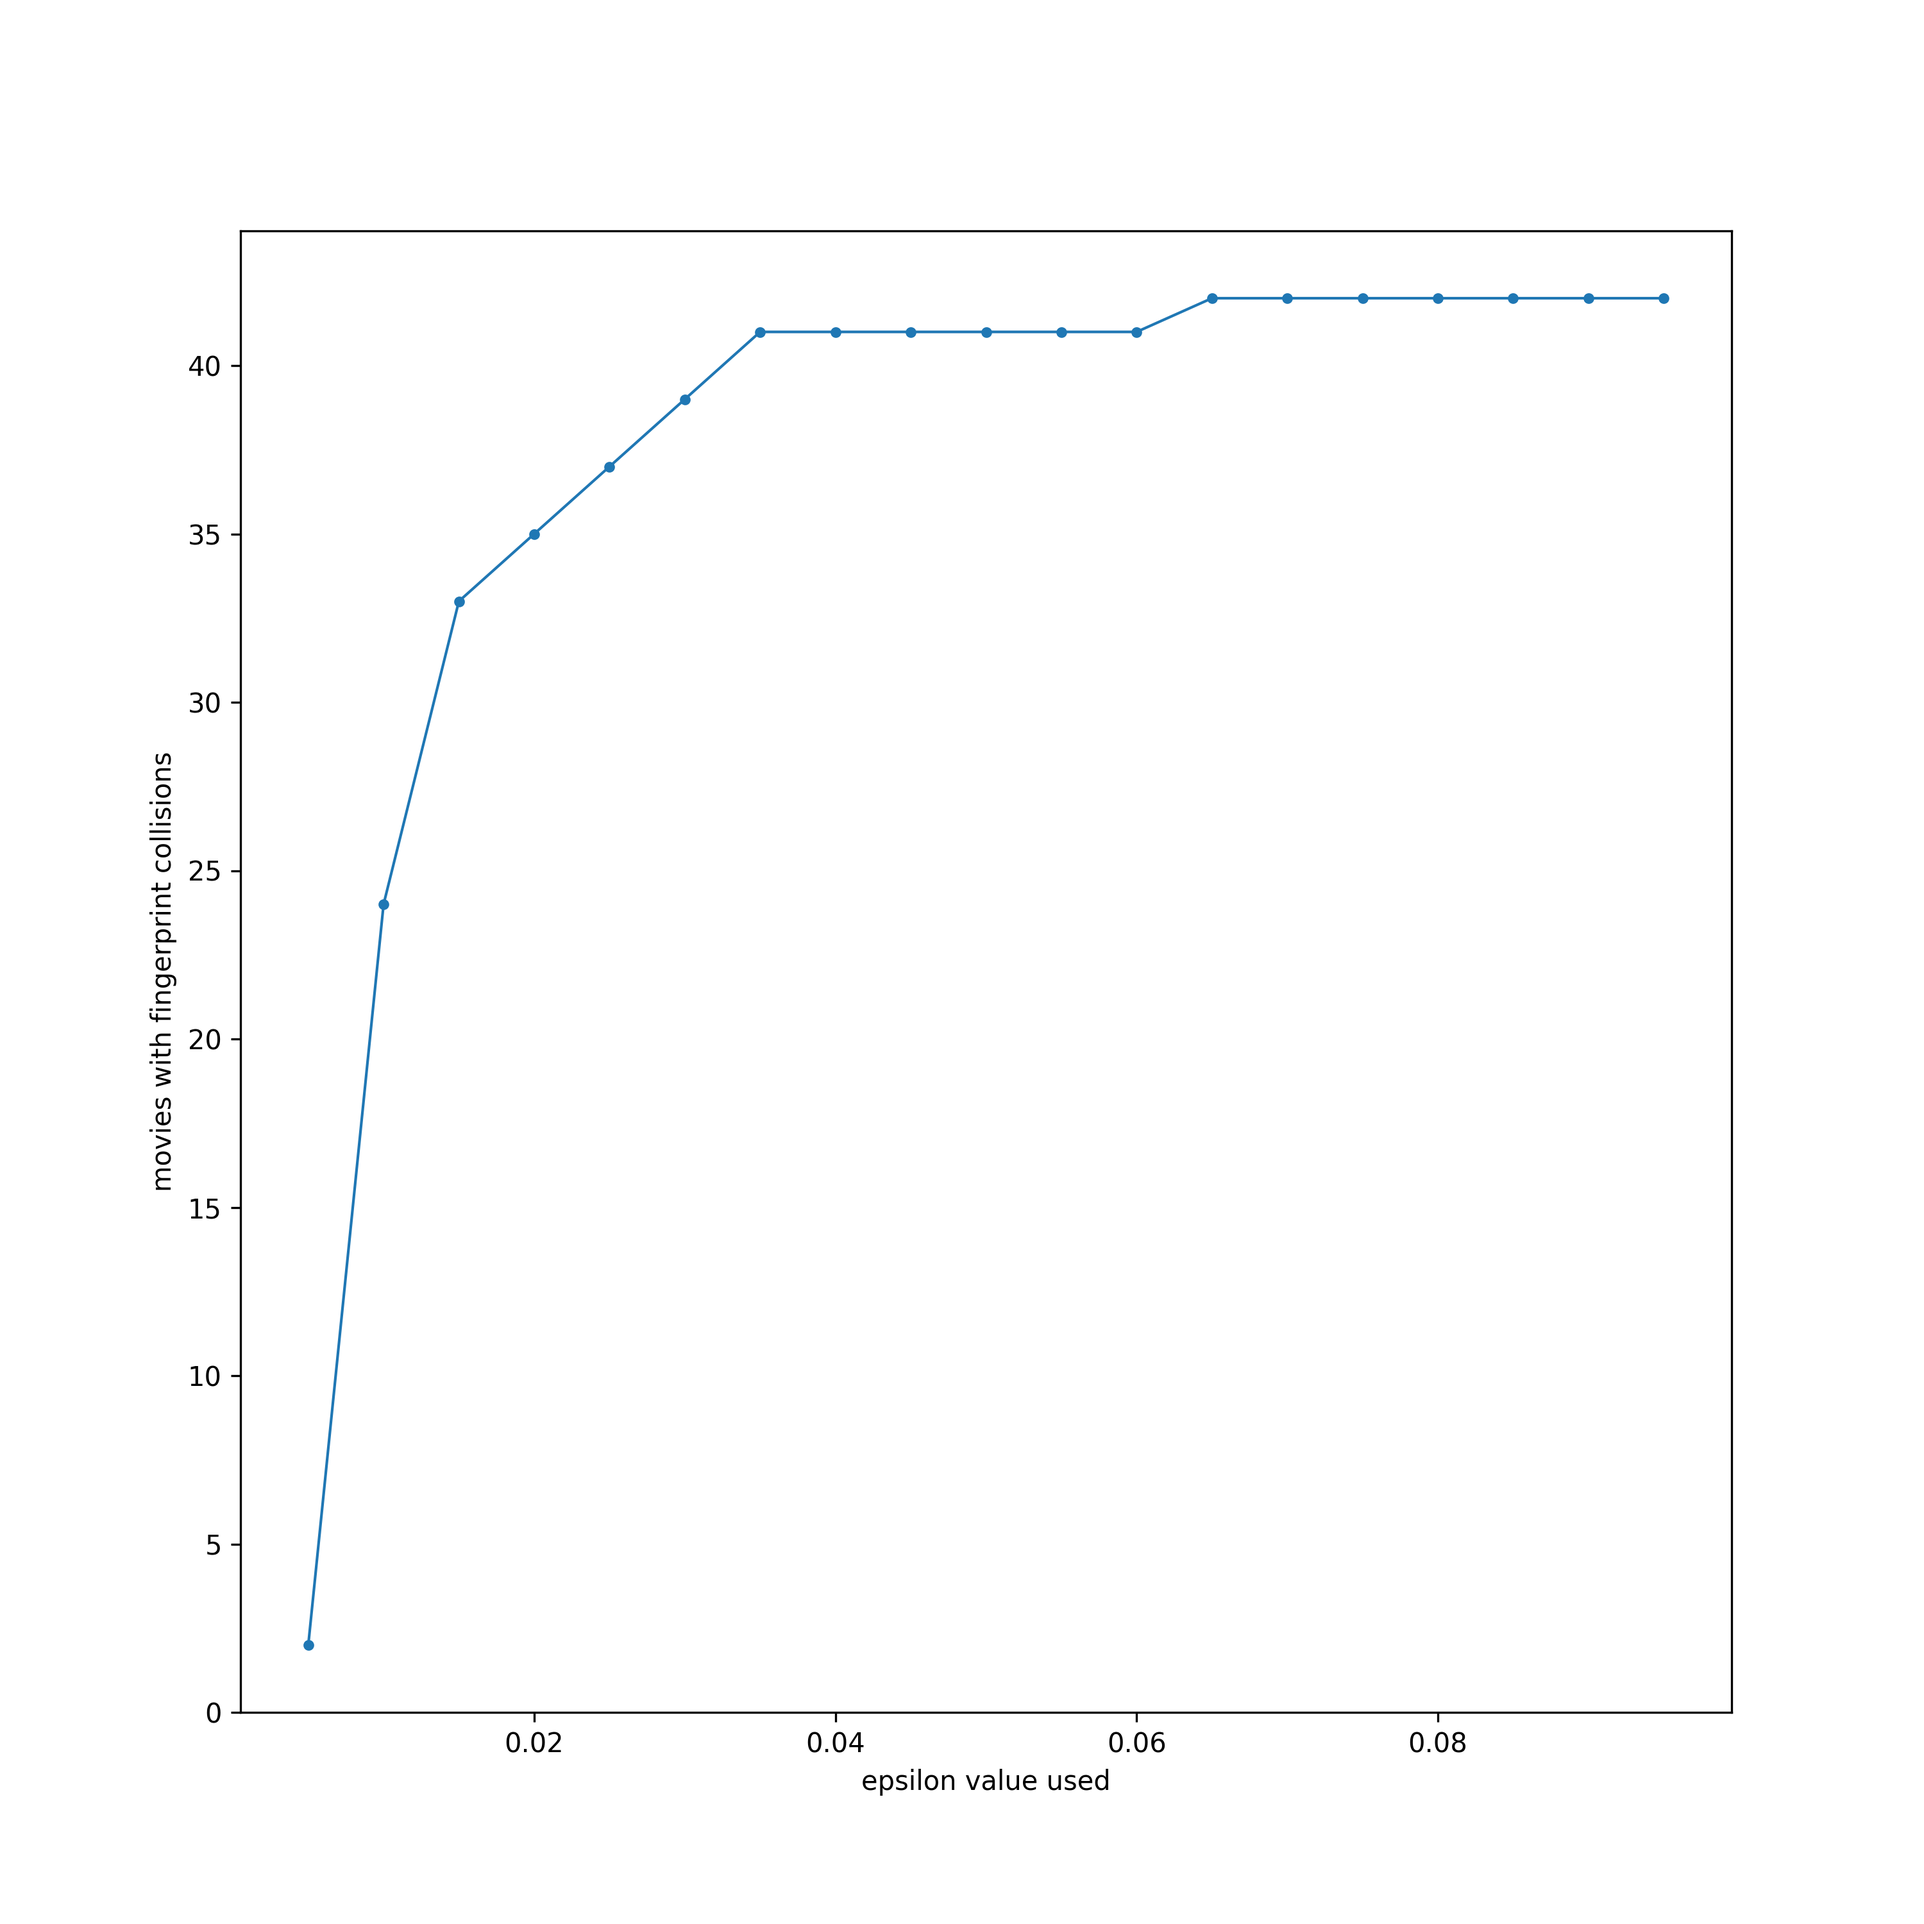
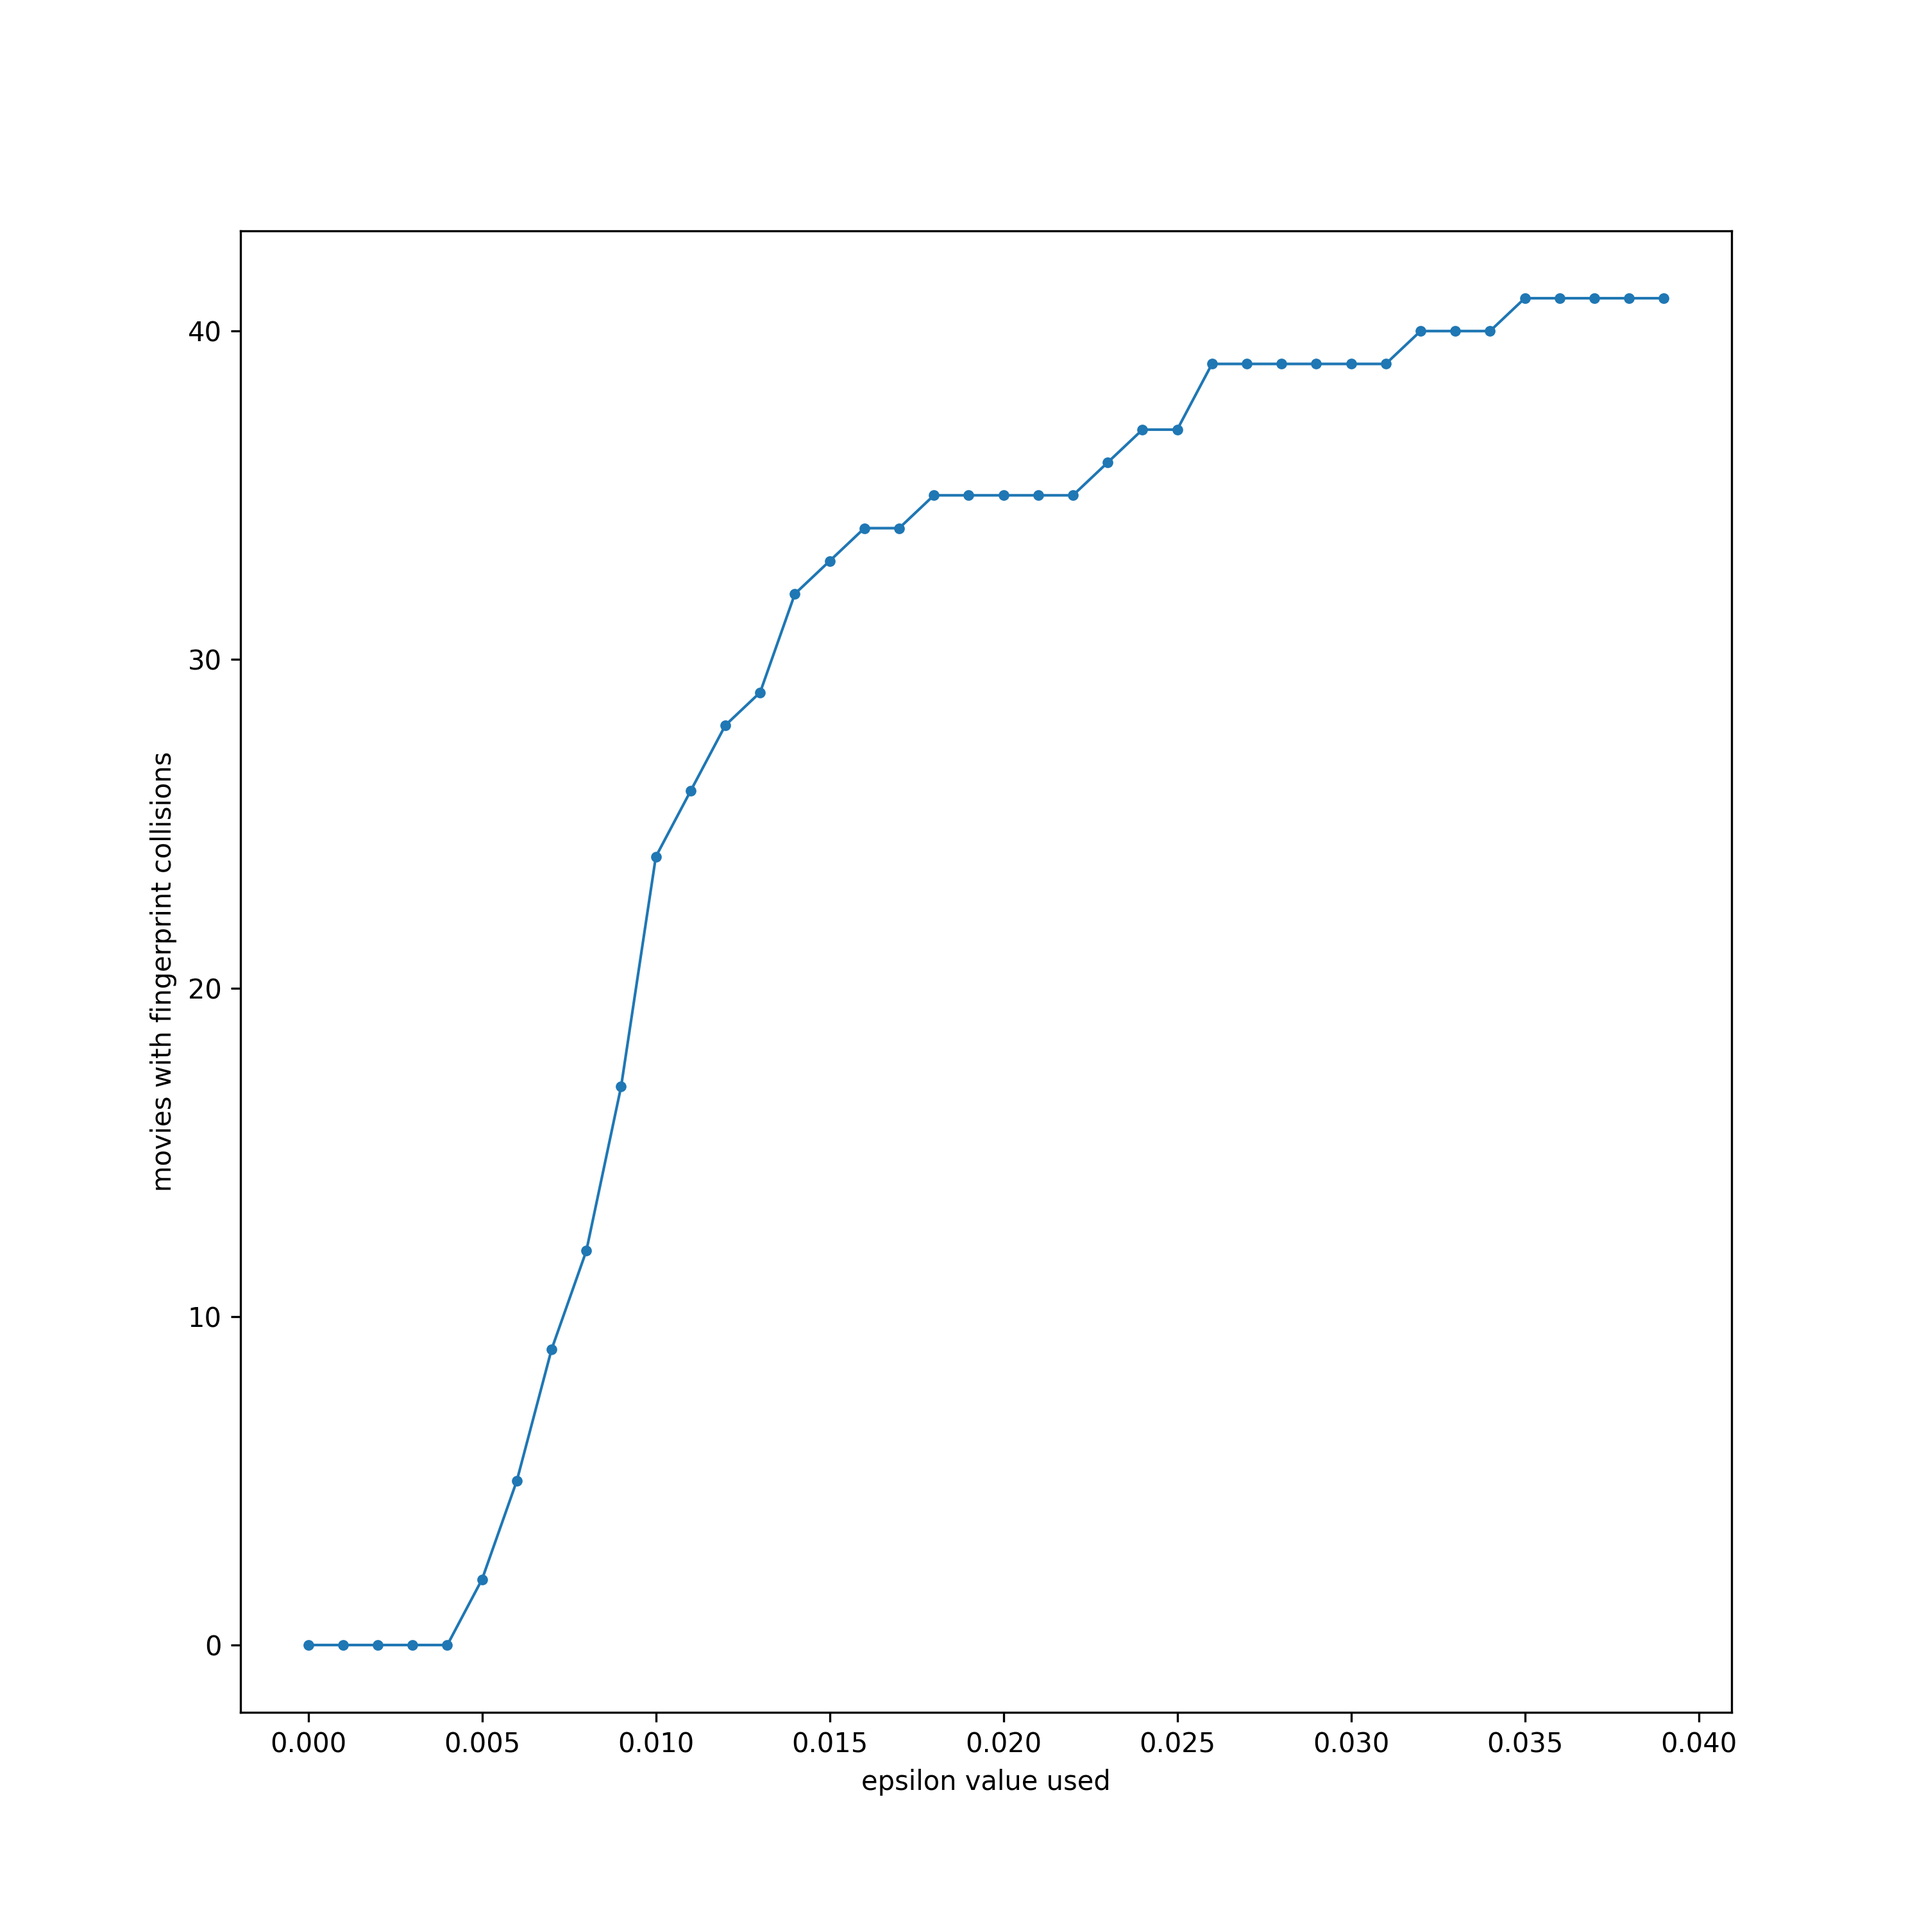
working on collision graphs

diff --git a/4_statistical_analysis/plot_collisions_over_bitrates.py b/4_statistical_analysis/plot_collisions_over_bitrates.py
@@ -11,11 +11,11 @@ from python_libs.config import StaticConfig, Inventory
 config = StaticConfig()
 inventory = Inventory()
 
-START_AGGREGATION = 1
-LAST_AGGREGATION = 1
+START_AGGREGATION = 10
+LAST_AGGREGATION = 10
 
-EPSILON_STEP = 0.005
-EPSILON_MAX = 0.1
+EPSILON_STEP = 0.002
+EPSILON_MAX = 0.13
 
 MAX_MOVIES = 100
 
@@ -36,7 +36,7 @@ connection = sqlite3.connect(db_file_name)
 cursor = connection.cursor()
 
 for aggregation in range(START_AGGREGATION, LAST_AGGREGATION + 1):
-    current_epsilon_multiplication = 1
+    current_epsilon_multiplication = 0
     epsilon = current_epsilon_multiplication * EPSILON_STEP
 
     epsilon_collisions = {}
